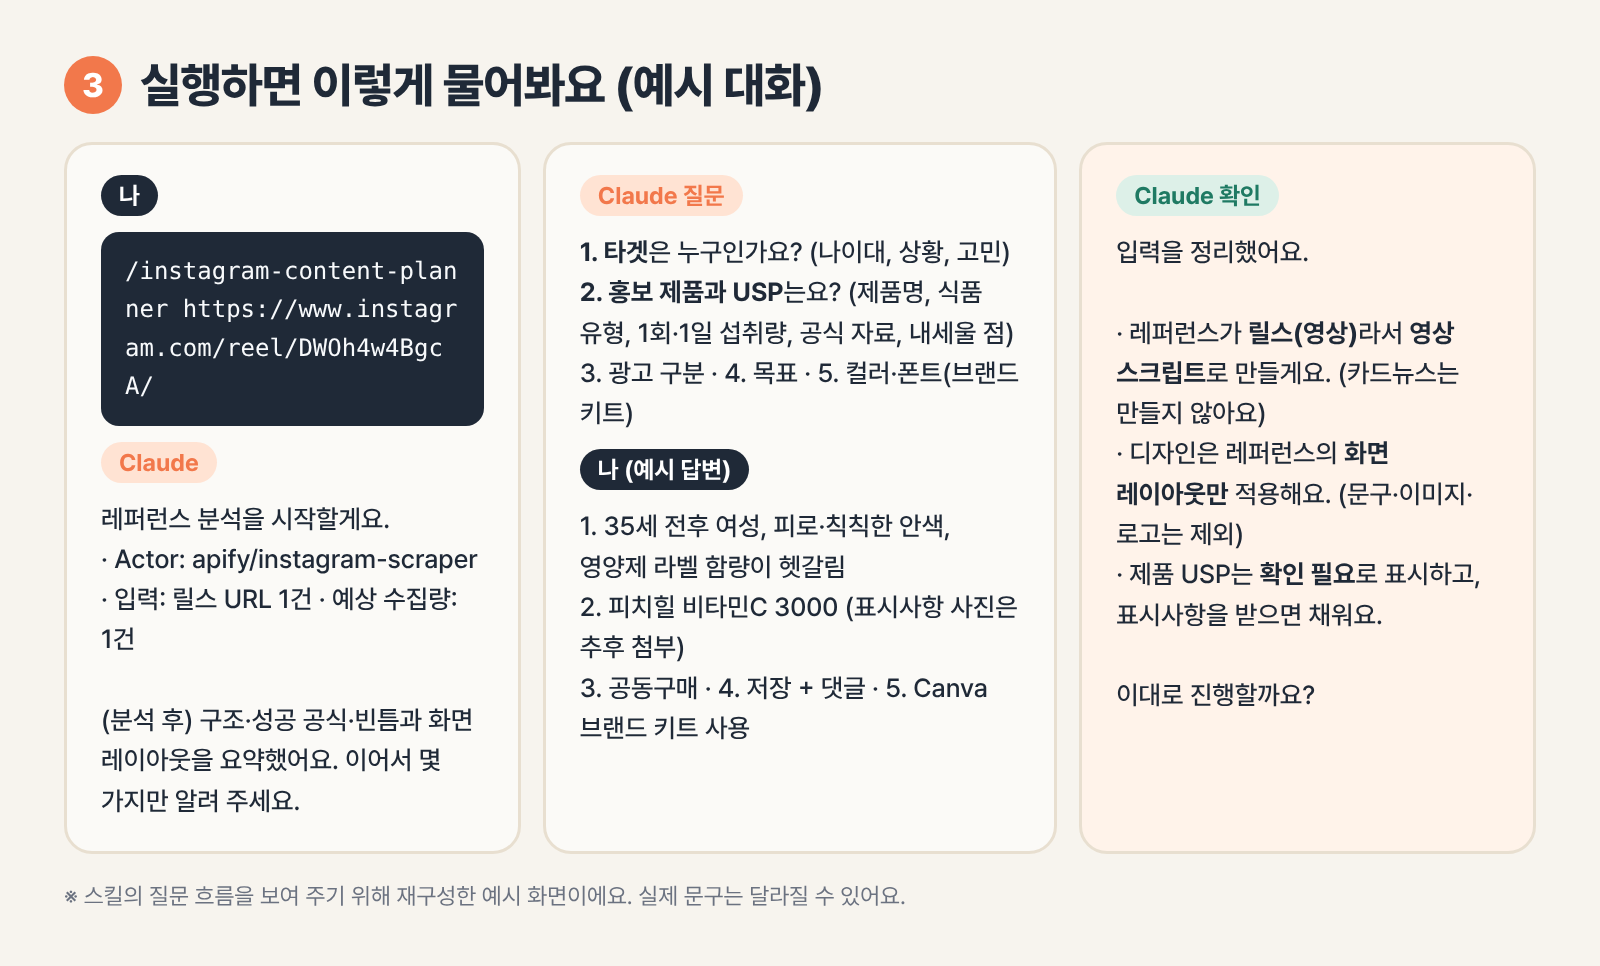
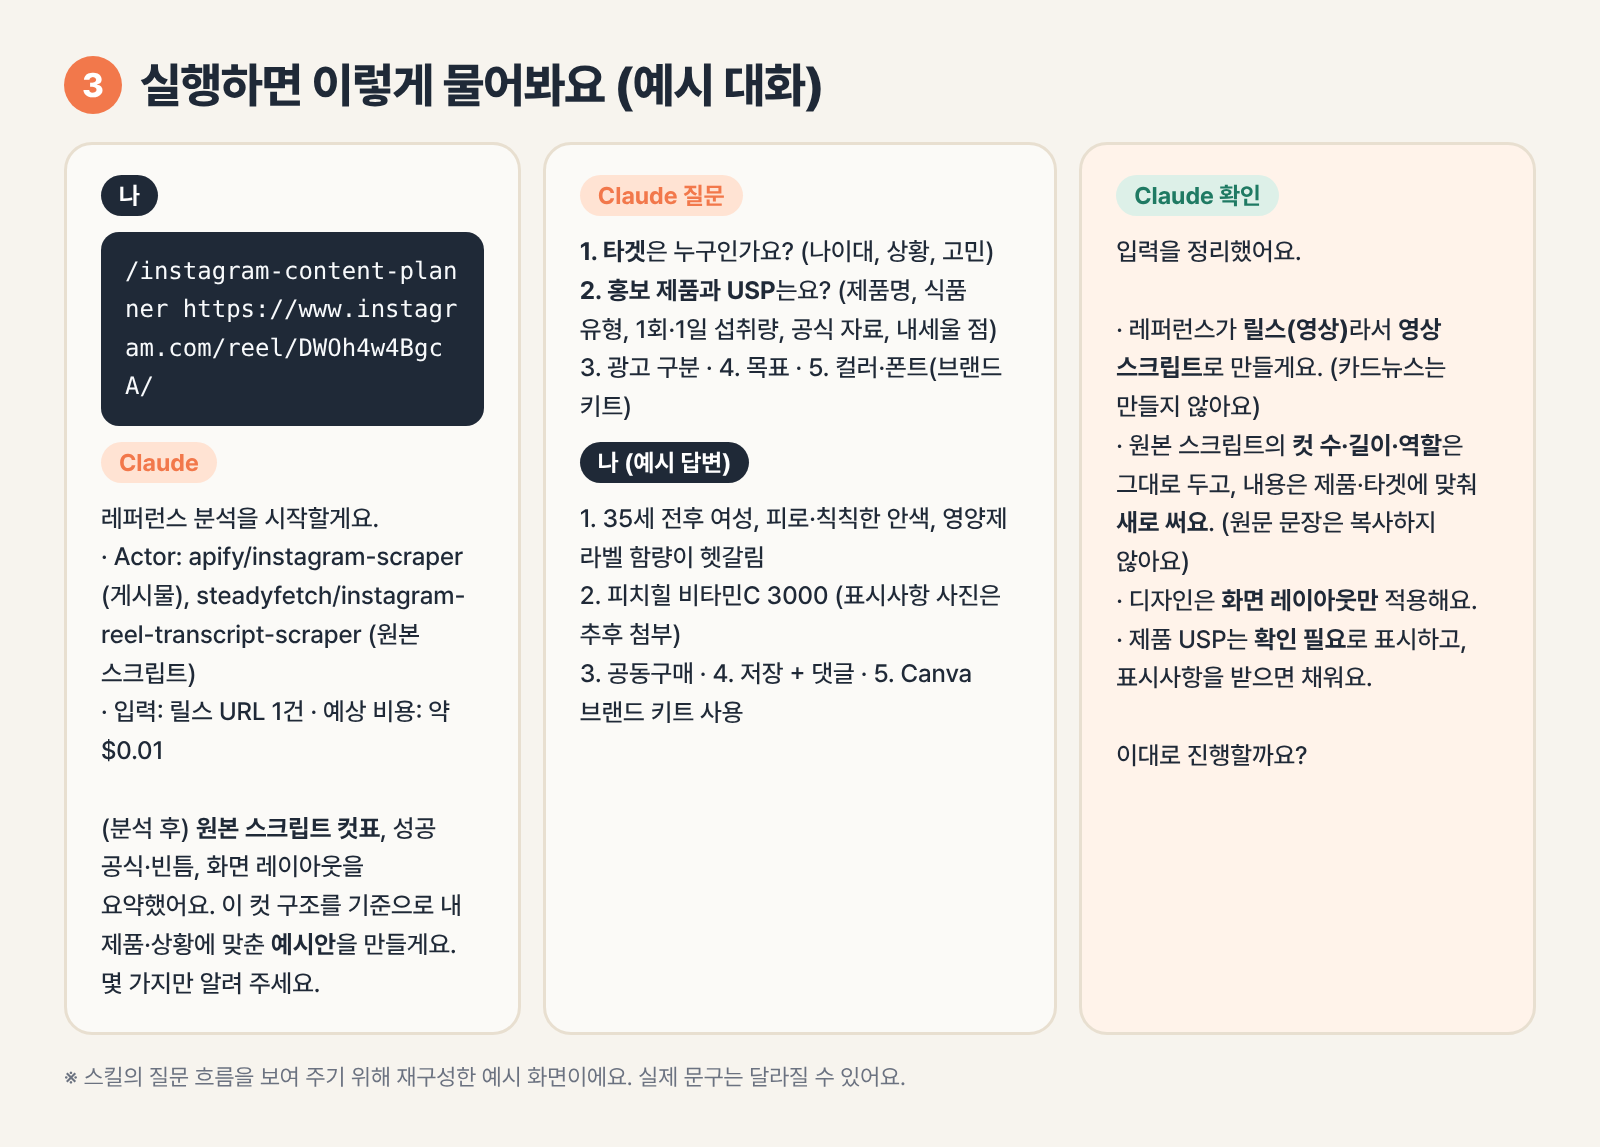
가이드 예시: 원본 스크립트 추출·컷 대응 예시안(68초 7컷), 스킬 segments 추출 팁 추가
Claude-Session: https://claude.ai/code/session_01T6QyA6JRBRf6JVN4Tn6aH7

diff --git a/examples/vitc-reel-peachhill/04_video_script.md b/examples/vitc-reel-peachhill/04_video_script.md
@@ -1,44 +1,32 @@
 # 04. 영상 스크립트 (예시): 비타민C 3000mg, 많이 먹을수록 좋을까요?
 
-릴스 9:16 / 약 57초 / 약사 본인 출연 / 레퍼런스 레이아웃 적용
+릴스 9:16 / 약 68초 / 원본 스크립트의 7컷 구조 유지 / 약사 본인 출연 / 레퍼런스 레이아웃 적용
+대응표: `03_original_to_example_map.md`
 
-## 공통 화면 레이아웃 (레퍼런스에서 추출한 것만 적용)
-- 인물 상반신 인터뷰 구도, 얼굴은 화면 상단~중앙
-- **A** 소형 카테고리 라벨 → **B** 하단 1/3 좌측 정렬 최대 3줄 헤드라인 → **C** 중앙 소형 로고 자리 (내 계정 로고)
-- 박스·딤 없이 자연 배경 위 자막. 색·폰트는 Canva 브랜드 키트 (미설정 시 가독성 기준 기본값)
+## 공통 화면 레이아웃 (레퍼런스 표지 프레임에서 추출한 것만 적용)
+- 9:16, 인물 상반신 인터뷰 구도 (얼굴은 화면 상단~중앙)
+- **A** 헤드라인 위 소형 카테고리 라벨 → **B** 하단 1/3 좌측 정렬 최대 3줄 헤드라인 → **C** 헤드라인 아래 중앙 소형 로고 자리
+- 박스·딤 없이 자연 배경 위 자막. 색·폰트는 브랜드 키트(미설정이면 가독성 기준 기본값)
 
 ## 컷별 스크립트
-| 컷 | 시간 | 화면 · 자막 위치 | 자막 | 내레이션 | 근거 |
+| 컷 | 시간 | 화면·자막 위치 | 자막 | 내레이션 | 근거 |
 |---|---|---|---|---|---|
-| 1 후킹 | 0~4초 | 인물 구도, A·B·C 적용 | A 영양제 / B 비타민C 3000mg, 많이 먹을수록 좋을까요? | 비타민C 3000mg, 많이 먹을수록 좋을까요? | - |
-| 2 공감 | 4~11초 | 같은 구도 + 라벨 클로즈업 삽입 | 영양제 라벨, 숫자만 보고 고르고 있나요? | 영양제 라벨엔 숫자가 크게 적혀 있죠. 그 숫자, 몸이 다 쓰는 양일까요? | - |
-| 3 기준 | 11~21초 | 인물 구도 + 하단 자막 3줄 | 권장 여성 75mg · 남성 90mg / 상한 2,000mg (미국 NIH) | 미국 NIH 기준으로 성인 권장량은 하루 여성 75mg, 남성 90mg이고, 상한은 2,000mg이에요. | NIH ODS Vitamin C Fact Sheet (2025.7.31): RDA, UL (A) |
-| 4 흡수 | 21~31초 | 인물 구도 + 자막 | 1,000mg 넘으면 흡수율 50% 미만 | 많이 먹을수록 흡수율은 떨어져요. 하루 1,000mg을 넘으면 50% 아래예요. 쓰이지 않은 건 소변으로 나가요. | 같은 자료: 30~180mg 약 70~90%, 1g 초과 50% 미만 (A) |
-| 5 주의 | 31~40초 | 인물 구도 + 체크 3가지 자막 | 신장 질환 · 복용 중인 약 → 먼저 상담 | 많이 먹으면 설사나 복통이 생길 수 있어요. 신장 질환이 있거나 복용 중인 약이 있다면 먼저 상담하세요. | 같은 자료: 위장 증상, 신장결석 우려(결과 상충), 혈색소증, 항암제·방사선·스타틴 상호작용 (A) |
-| 6 제품 | 40~50초 | 인물 구도 + 제품 자막 | 피치힐 비타민C 3000 / [1회 __ · 하루 총 __mg] | **[확인 필요]** 제가 소개하는 피치힐 비타민C 3000은 1회 __ 섭취에 비타민C __mg, 하루 총량은 __mg이에요. | 제품 표시사항 (미확보) |
-| 7 CTA | 50~57초 | 인물 구도 + CTA 자막 | 라벨 3가지 확인 · 저장해 두세요 / (공동구매 광고 · 표기 확정 필요) | 라벨의 1회 섭취량과 하루 총 함량만 꼭 확인하세요. 저장해 두고, 궁금한 점은 댓글로 남겨 주세요. | - |
+| 1 후킹 | 0~3초 | 인물 구도 + A·B·C 배치 | A 영양제 / B 비타민C 3000mg, 많이 먹을수록 좋을까요? | 비타민C 3000mg, 많이 먹을수록 좋을까요? | - |
+| 2 문제·해법 | 3~12초 | 같은 구도, B 자막 | 칙칙해 보이는 피부, / 고용량부터 찾게 되죠? / 먼저 라벨과 근거부터 | 칙칙해 보이는 피부, 고용량부터 찾게 되죠? 먼저 근거부터 확인해 볼게요. | - |
+| 3 근거와 한계 | 12~20초 | 같은 구도, B 자막 | 비타민C는 콜라겐에 필요 / 하지만 먹는 양과 / 피부 변화의 근거는 부족 | 콜라겐을 만드는 데 필요하지만, 먹는 양과 피부 변화의 근거는 부족해요. | NIH ODS Vitamin C(2025.7.31), Pullar 2017 초록 |
+| 4 정의·확인 | 20~34초 | 같은 구도, B 자막 | 3,000mg은 / NIH 성인 상한 2,000mg보다 많아요 / 라벨의 하루 총량부터 확인 | 3,000mg 같은 고용량은 미국 NIH 성인 상한 2,000mg보다 많은 양이에요. 그래서 제품 라벨의 하루 총량부터 확인하세요. | NIH ODS Vitamin C |
+| 5 흡수·아연 | 34~49초 | 같은 구도, B 자막 | 하루 1,000mg 넘으면 / 흡수율 50% 미만 / 아연 여성 권장 8mg · 상한 40mg | 하루 1,000mg을 넘으면 흡수율은 50% 아래예요. 아연은 여성 권장량이 8mg, 상한이 40mg이에요. 라벨 함량을 확인하세요. | NIH ODS Vitamin C, NIH ODS Zinc(2026.1.6) |
+| 6 주의·경험 | 49~59초 | 같은 구도, B 자막 | 설사·복통 가능 / [본인 경험 한 문장] / 신장 질환·복용 약 있으면 상담 | 설사나 복통이 생길 수 있어요. [약사 본인 경험 한 문장, 실제 경험만] 신장 질환이나 복용 약이 있다면 먼저 상담하세요. | NIH ODS Vitamin C |
+| 7 CTA | 59~68초 | 같은 구도, B 자막 + C 로고 자리 | 라벨체크 정리본 / 댓글에 [라벨체크] / (공동구매 광고 포함) | 정리본으로 상한과 라벨 확인법부터 보세요. 댓글에 라벨체크 남겨 주시면 정리본과 제품 안내를 DM으로 드릴게요. | - |
 
-## 컷 6 작성 규칙 (표시사항 확인 후 적용)
-| 확인 결과 | 사용할 문구 |
+## 제품 처리
+- 영상에는 제품명·함량·효능을 넣지 않고, 제품 안내는 DM의 광고 칸에서 표시사항 확인 후 작성합니다. 원본에 없던 제품 소개를 영상에 별도 컷으로 넣지 않았습니다.
+- 하루 총량 문구 분기(상한 이하/초과/미확인)는 DM 정리본 규칙을 따릅니다.
+
+## 검수 요약
+| 항목 | 결과 |
 |---|---|
-| 하루 총량이 2,000mg 이하 | "하루 총량이 상한(2,000mg, 미국 NIH 성인 기준) 이내예요." 처럼 사실만. "안전하다" 단정 금지 |
-| 하루 총량이 2,000mg 초과 | "하루 총량이 상한 2,000mg을 넘는 양이에요. 설사·복통이 생길 수 있고, 신장 질환이나 복용 중인 약이 있다면 먼저 상담하세요." 필수 |
-| 1회 섭취량·하루 총량 미확인 | 컷 6 삭제하고 정보성 영상으로만 게시 (제품명의 "3000"만으로 섭취량 단정 금지) |
-| 식품 유형이 건강기능식품 | 식약처 인정 기능성 문구 범위에서만 효능 표현 (원문 확인 필요) |
-
-## 촬영·편집 가이드
-- 촬영: 약사 본인 상반신, 자연광, 세로 촬영. 라벨 클로즈업은 실제 영양제 2~3종(타사 로고는 가리기)
-- 자막: 컷마다 하단 1/3, 좌측 정렬, 한 줄 14자 안팎. 근거 출처는 화면 최하단에 작게 "출처: NIH ODS, 2025.7.31"
-- 편집: 컷 전환은 1~2초 간격의 점프컷, 숫자는 자막에서 굵게 강조
-- 내레이션 길이: 컷별 초당 약 5음절 기준으로 점검함
-
-## 검수 결과 (요약)
-| 항목 | 결과 | 조치 |
-|---|---|---|
-| 타겟(35세 전후 여성) 관심과 연결 | 부분 충족 | 피부 관련 인체 연구 근거는 미확인이라 컷에 넣지 않음. 라벨·함량 혼란 고민에 맞춤 |
-| 첫 4초 호기심 | 충족 | 질문형 후킹 + 숫자 |
-| 근거 | 충족 | 컷 3~5는 NIH 원문 확인(A). 한국 기준은 원문 확인 후 추가 |
-| 광고처럼 느껴지는지 | 충족 | 제품은 컷 6 한 곳, 정보 컷 뒤에 배치 |
-| 공포 조장·단정 표현 | 없음 | - |
-| 레이아웃 | 레퍼런스 범위 준수 | 표지 외 장면 구도는 미확인 |
-| 미완료 | 컷 6 제품 정보, 광고 표기 | 표시사항·광고 구분 확정 후 작성 |
+| 원본 구조 유지 (컷 수·길이·역할) | 충족 |
+| 원본 문장 복사 | 없음 |
+| 근거 | 컷 3~6은 NIH 원문 또는 논문 초록 확인. 한국 기준은 미사용 |
+| 미완료 | 컷 6 본인 경험, 광고 표기, 제품 표시사항 |

diff --git a/examples/vitc-reel-peachhill/03_original_to_example_map.md b/examples/vitc-reel-peachhill/03_original_to_example_map.md
@@ -1,0 +1,32 @@
+# 03. 원본 스크립트 ↔ 예시안 대응표 (예시)
+
+레퍼런스: https://www.instagram.com/reel/DWOh4w4BgcA/ (롱진 \| Long:zine, 67.8초)
+추출: 2026-10-11, Apify `steadyfetch/instagram-reel-transcript-scraper` (한국어 음성 대본 추출 성공, 화면 자막은 추출되지 않음)
+
+원본 문장은 옮기지 않고 컷별 요약만 기록합니다.
+
+## 1. 원본 스크립트 컷표 (요약)
+| 컷 | 시간 | 역할 | 원본 내용 요약 | 길이 |
+|---|---|---|---|---|
+| 1 | 0~3.2초 | 후킹 | 효과를 단정하는 선언으로 시작 | 3.2초 |
+| 2 | 3.2~12초 | 문제·해법 | 안색 고민 방문자에게 시술 대신 권하는 방법으로 제시 | 8.8초 |
+| 3 | 12~20초 | 효과 약속 | 짧은 기간 안에 칙칙함·컨디션이 좋아진다고 체감을 약속 | 8초 |
+| 4 | 20~34.3초 | 정의·확인 | 고용량의 기준 용량을 제시하고, 먹는 제품의 mg을 확인하라고 안내 | 14.3초 |
+| 5 | 34.3~49.1초 | 복용 방법 | 1,000mg 정제 기준으로 하루 3회 나눠 먹는 예시 | 14.8초 |
+| 6 | 49.1~58.8초 | 부작용·경험 | 위염 가능성과 화자 본인의 용량 조절 경험 | 9.7초 |
+| 7 | 58.8~67.8초 | 결론 | 견딜 수 있는 선에서 용량을 정하라는 마무리 | 9초 |
+
+원본의 근거 확인: 효과 기간·체감, 제시한 용량에 대한 출처 표기는 대본에서 확인되지 않았습니다. 제시된 용량(수천 mg)은 NIH 성인 상한 2,000mg과 비교되지 않았습니다.
+
+## 2. 대응표 (피치힐 비타민C 3000 예시안)
+| 컷 | 역할 | 원본 | 예시안 | 바뀐 점 |
+|---|---|---|---|---|
+| 1 | 후킹 | 효과 단정 선언 | "비타민C 3000mg, 많이 먹을수록 좋을까요?" | 단정 → 질문형 (효과 단정 근거 없음) |
+| 2 | 문제·해법 | 시술 대신 권유 | 칙칙한 피부 공감 → 라벨과 근거부터 확인 | 권유 → 확인 방법 |
+| 3 | 효과 약속 → 근거와 한계 | 기간 내 체감 약속 | 콜라겐에 필요하지만 먹는 양과 피부 변화의 근거는 부족 | 약속 → 근거 한계 |
+| 4 | 정의·확인 | 기준 용량 제시 | 3,000mg은 NIH 성인 상한 2,000mg보다 많은 양, 라벨의 하루 총량 확인 | 상한 비교 추가 |
+| 5 | 복용 방법 → 흡수·아연 | 분할 복용 예시 | 1,000mg 초과 시 흡수율 50% 미만, 아연 여성 권장 8mg·상한 40mg | 분할 예시 → 흡수율·아연 기준 |
+| 6 | 부작용·경험 | 위염과 본인 조절 | 설사·복통 가능, [약사 본인 경험 1문장], 신장 질환·복용 약 상담 | 경험은 본인 슬롯 |
+| 7 | 결론 → CTA | 용량 결정 마무리 | 정리본으로 상한·라벨 확인법 확인, 댓글 [라벨체크] → DM(정리본 + 제품 안내, 광고) | 제품은 DM에서 광고 표기로 안내 |
+
+변환 원칙: 컷 수(7), 총 길이(약 68초), 컷 역할 순서는 유지하고, 내용과 문장은 새로 작성했습니다.

diff --git a/.claude/skills/instagram-content-planner/SKILL.md b/.claude/skills/instagram-content-planner/SKILL.md
@@ -138,6 +138,7 @@ description: 약사·건강 전문가를 위한 인스타그램 콘텐츠 기획
 - **영상 원본 스크립트 추출** (레퍼런스가 릴스·영상일 때, 입력한 URL에서 자동 진행)
   - Actor: `steadyfetch/instagram-reel-transcript-scraper` — 입력 `reelUrls`(릴스 URL), `includeOnScreenText: true`. 음성 대본, 시간 구간(segments), 첫 3초 훅, 화면 자막(옵션), 영상 길이, 재생수·좋아요를 돌려줍니다. 시험 단가는 릴스 1건당 약 $0.01이며, 실행 전에 Actor·입력·예상 건수·단가를 알립니다.
   - 대안 Actor: `afanasenko/instagram-reel-script-extractor`(화면 자막과 훅·CTA 분해까지, 단가 높음), `memo23/instagram-reel-transcript-scraper`(Whisper, SRT/VTT), 인스타그램 외 영상 URL은 `themineworks/instagram-tiktok-video-transcript`
+  - 결과를 가져올 때 시간 구간(`segments`)은 `fields`로 항목을 지정하면 빠질 수 있으므로, 불필요한 큰 항목(`transcript`, `videoUrl` 등)을 `omit`으로 제외하는 방식으로 가져옵니다.
   - 추출 결과를 **원본 컷표**로 정리합니다: 컷 번호 | 시간 구간 | 음성 대본 | 화면 자막 | 역할(후킹·공감·정보·전환·CTA) | 길이(초)·글자 수
   - 한계와 처리: 언어를 잘못 인식하거나(예: 한국어 영상이 외국어로 표시), 음악만 있는 영상이거나, 화면 자막이 비어 있을 수 있습니다. 이때 표지 프레임(이미지)에서 읽을 수 있는 자막만 기록하고, 나머지는 사용자에게 대본·자막을 붙여넣거나 화면 캡처를 올려 달라고 요청합니다. 짧은 티저 영상은 대본이 한두 문장뿐일 수 있으므로 캡션 구조로 보완합니다. **추출하지 못한 부분은 추정하지 않습니다.**
   - 원본 스크립트는 구조 분석용입니다. 보고서에는 원문을 길게 옮기지 않고 필요한 부분만 짧게 인용합니다.

diff --git a/skill-export/instagram-content-planner/SKILL.md b/skill-export/instagram-content-planner/SKILL.md
@@ -138,6 +138,7 @@ description: 약사·건강 전문가를 위한 인스타그램 콘텐츠 기획
 - **영상 원본 스크립트 추출** (레퍼런스가 릴스·영상일 때, 입력한 URL에서 자동 진행)
   - Actor: `steadyfetch/instagram-reel-transcript-scraper` — 입력 `reelUrls`(릴스 URL), `includeOnScreenText: true`. 음성 대본, 시간 구간(segments), 첫 3초 훅, 화면 자막(옵션), 영상 길이, 재생수·좋아요를 돌려줍니다. 시험 단가는 릴스 1건당 약 $0.01이며, 실행 전에 Actor·입력·예상 건수·단가를 알립니다.
   - 대안 Actor: `afanasenko/instagram-reel-script-extractor`(화면 자막과 훅·CTA 분해까지, 단가 높음), `memo23/instagram-reel-transcript-scraper`(Whisper, SRT/VTT), 인스타그램 외 영상 URL은 `themineworks/instagram-tiktok-video-transcript`
+  - 결과를 가져올 때 시간 구간(`segments`)은 `fields`로 항목을 지정하면 빠질 수 있으므로, 불필요한 큰 항목(`transcript`, `videoUrl` 등)을 `omit`으로 제외하는 방식으로 가져옵니다.
   - 추출 결과를 **원본 컷표**로 정리합니다: 컷 번호 | 시간 구간 | 음성 대본 | 화면 자막 | 역할(후킹·공감·정보·전환·CTA) | 길이(초)·글자 수
   - 한계와 처리: 언어를 잘못 인식하거나(예: 한국어 영상이 외국어로 표시), 음악만 있는 영상이거나, 화면 자막이 비어 있을 수 있습니다. 이때 표지 프레임(이미지)에서 읽을 수 있는 자막만 기록하고, 나머지는 사용자에게 대본·자막을 붙여넣거나 화면 캡처를 올려 달라고 요청합니다. 짧은 티저 영상은 대본이 한두 문장뿐일 수 있으므로 캡션 구조로 보완합니다. **추출하지 못한 부분은 추정하지 않습니다.**
   - 원본 스크립트는 구조 분석용입니다. 보고서에는 원문을 길게 옮기지 않고 필요한 부분만 짧게 인용합니다.

diff --git a/examples/vitc-reel-peachhill/02_reference_analysis.md b/examples/vitc-reel-peachhill/02_reference_analysis.md
@@ -19,7 +19,7 @@
 - **전개**: 전문가 발언 인용 → 번호 7개 정리 → 용량 설정 방법 → 부작용(위장)과 용량 조절 → 면책 문구(신장 결석·위장 질환 상담)
 - **숫자**: 메가도스 기준 용량, 복용 분할 방법, 효과를 체감하는 기간을 구체적으로 제시
 - **CTA**: 행사 참여 안내 (제품 판매 없음)
-- **음성·자막 전체**: 수집하지 못함 (캡션과 표지 프레임으로만 분석)
+- **음성 대본**: 추출 성공 (한국어, 7개 컷으로 분해, `03_original_to_example_map.md` 참고). 화면 자막은 추출되지 않아 표지 프레임으로만 확인
 
 ## 3. 성공 공식 (가설, 단정 아님)
 1. 이점과 주의를 같이 던지는 후킹
